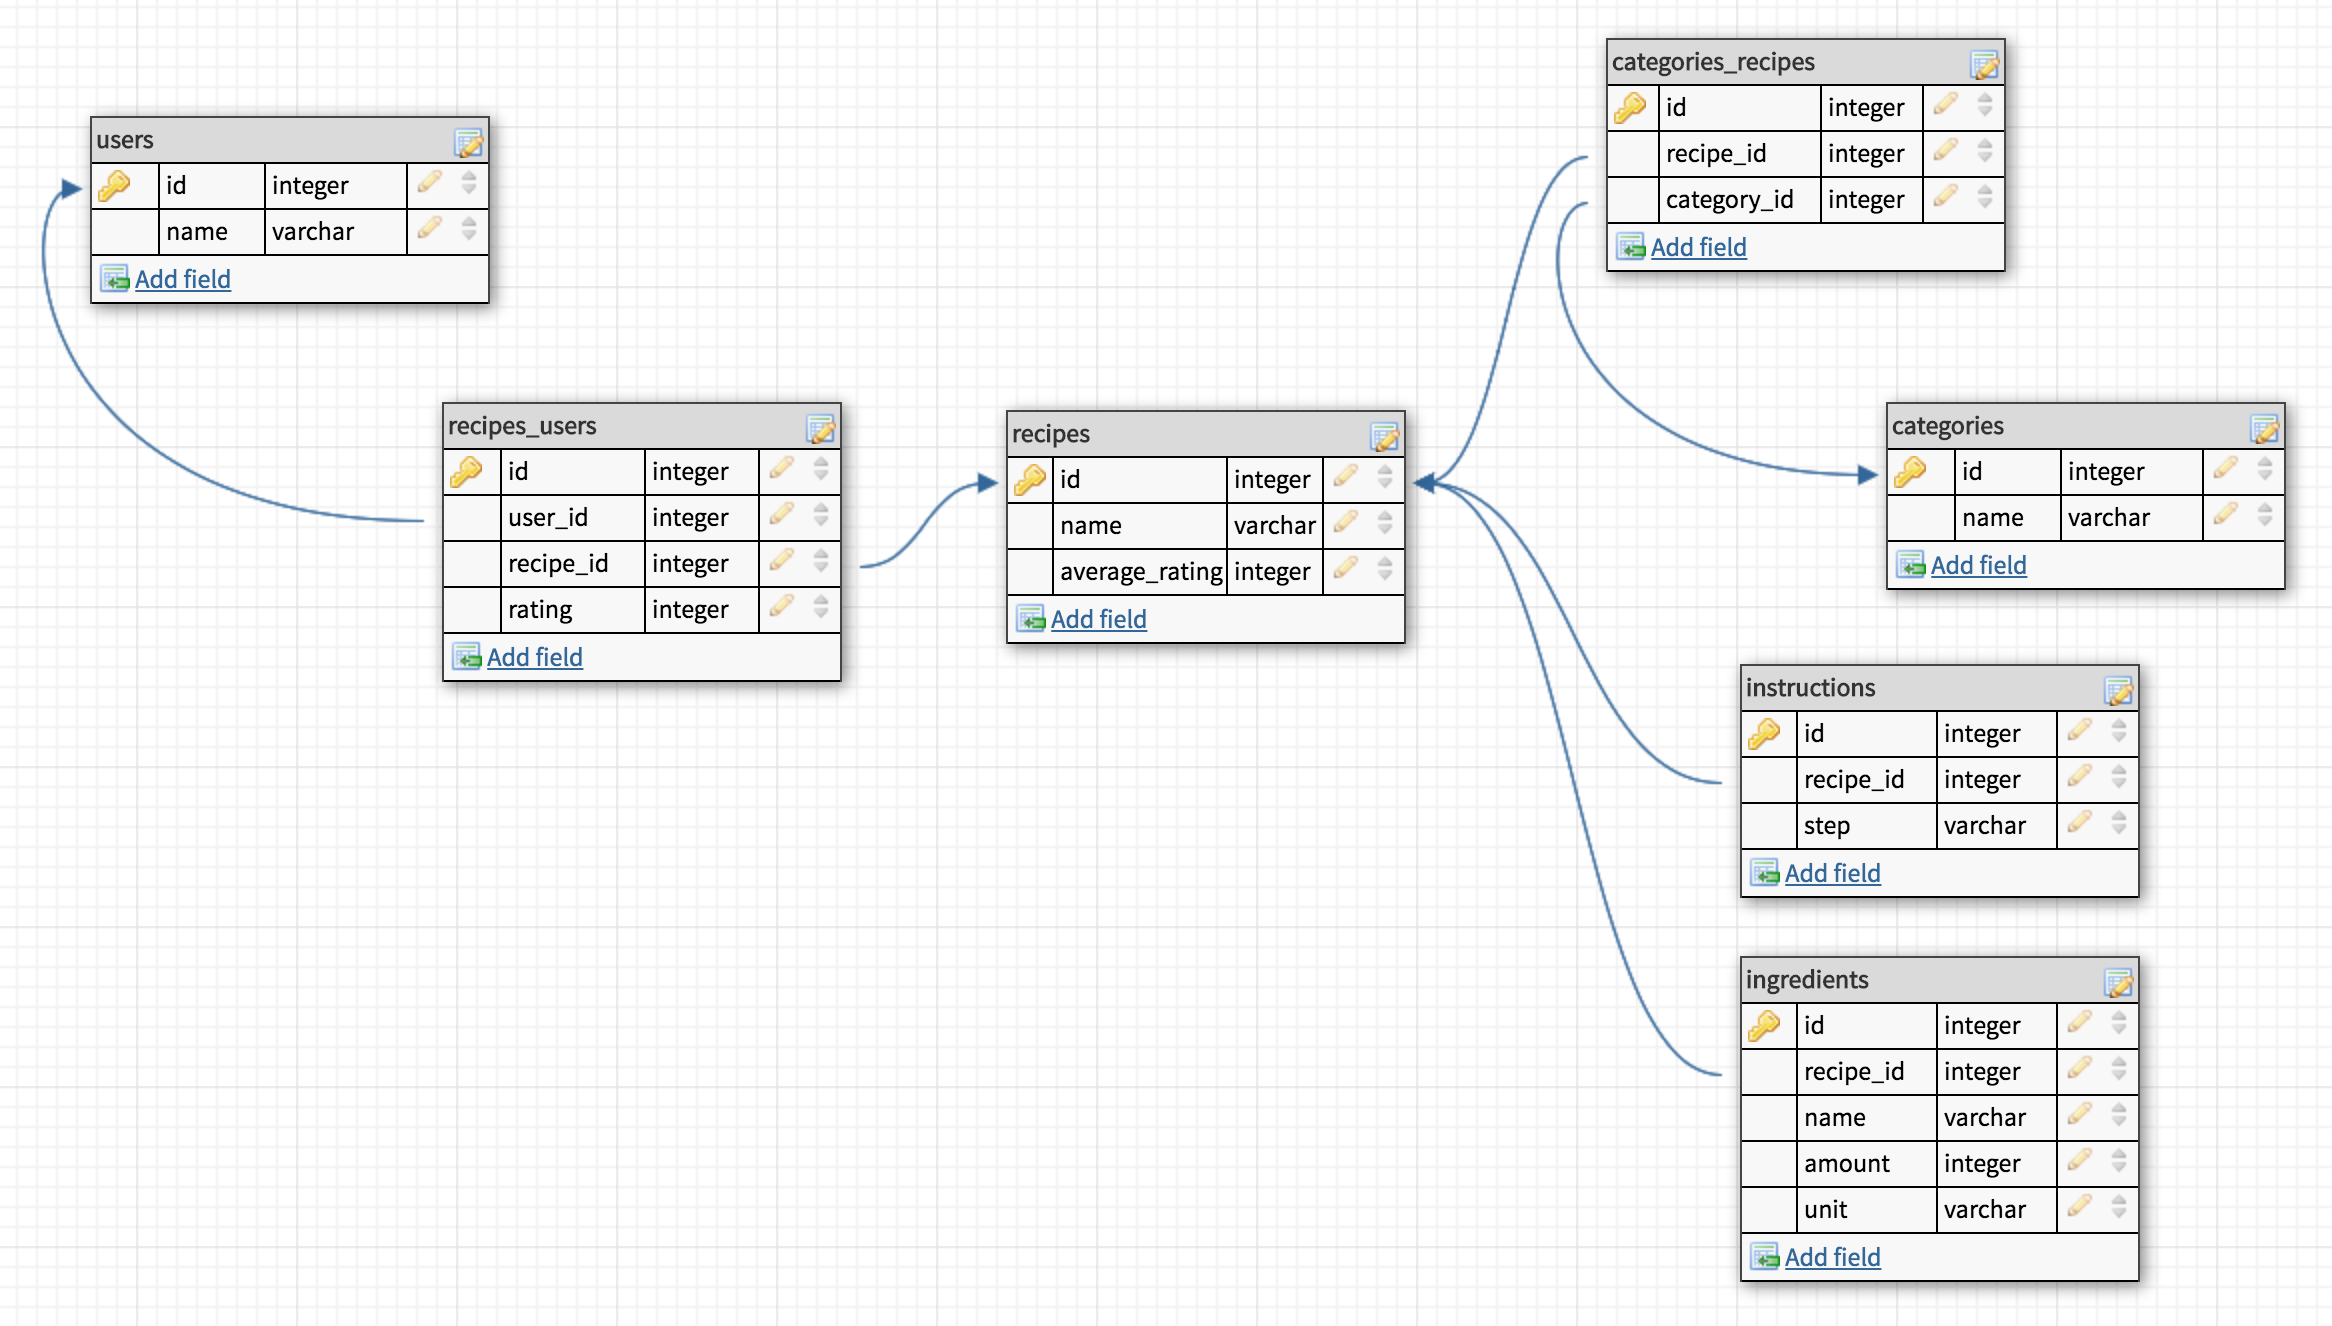
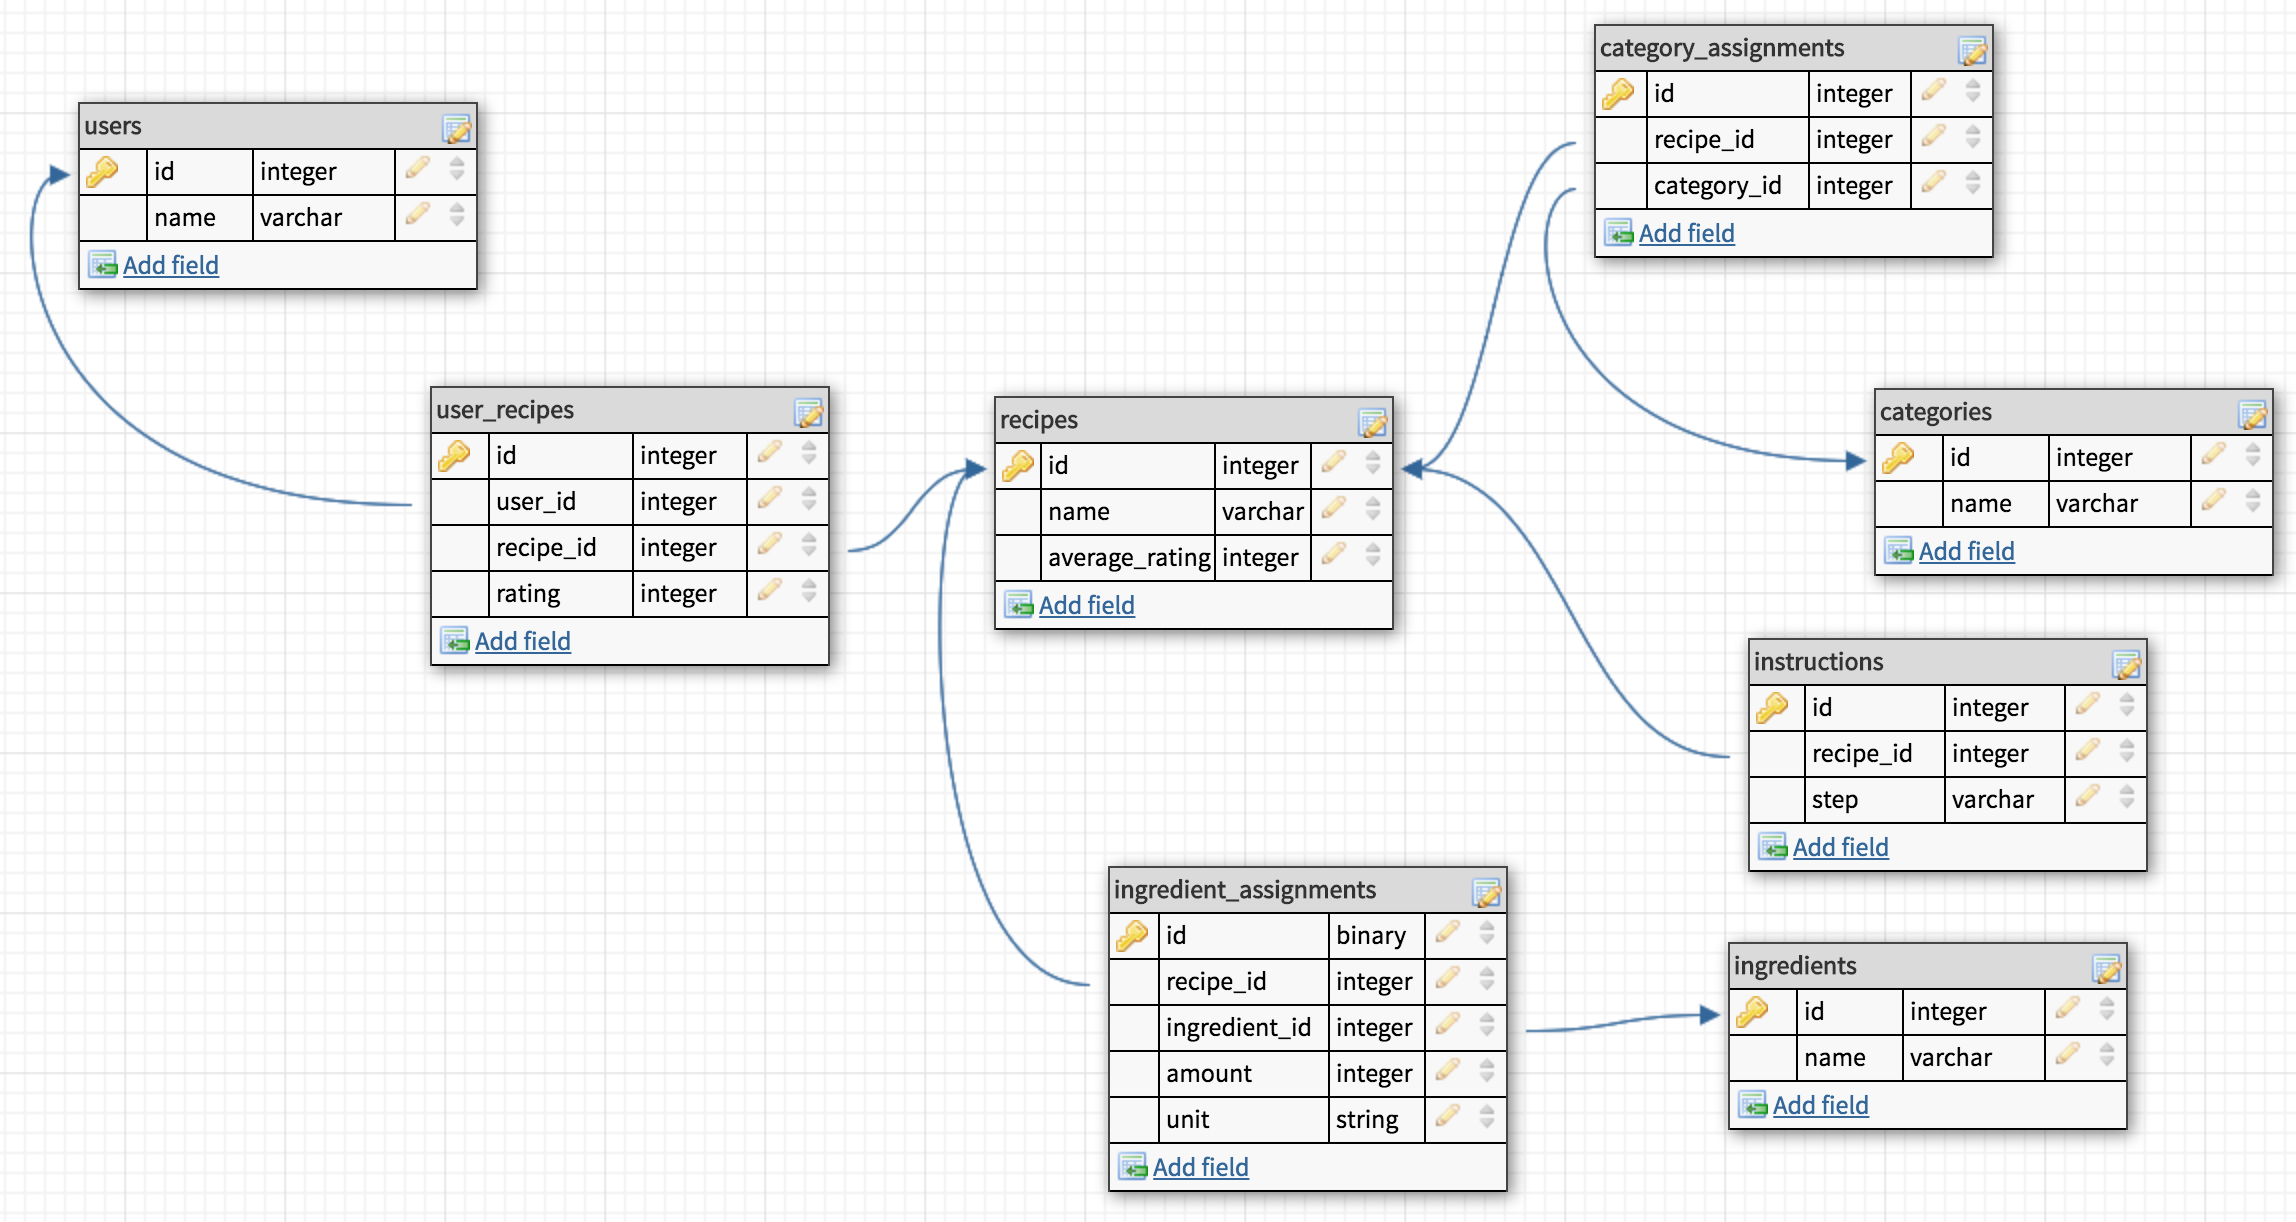
add front end for adding, editing and deleting instructions and ingredients

diff --git a/public/style.css b/public/style.css
@@ -1,0 +1,16 @@
+body {
+  font-family: 'PT Sans Narrow', sans-serif;
+}
+
+#main-title {
+  font-size: 3em;
+}
+
+.panel-default>.panel-heading {
+  background-color: #8157FF;
+  color: #ffffff;
+}
+
+#delete {
+  background-color: #FF3366;
+}

diff --git a/app.rb b/app.rb
@@ -24,31 +24,103 @@ get '/user/:user_id' do
   erb :user
 end
 
-post '/user/:user_id/recipe/edit' do
-  name = params["name"]
-  @recipe = Recipe.new({:name => name})
+get '/user/:user_id/recipe/:recipe_id/edit' do
   @user = User.find(params['user_id'].to_i())
-  @user.recipes.push(@recipe)
+  @recipe = Recipe.find(params['recipe_id'].to_i())
   erb :edit_recipe
 end
 
-get '/user/:user_id/recipe/:recipe_id' do
+get '/user/:user_id/recipe/:recipe_id/ingredient/:ingredient_id/edit' do
   @user = User.find(params['user_id'].to_i())
   @recipe = Recipe.find(params['recipe_id'].to_i())
-  erb :recipe
+  @ingredient = Ingredient.find(params['ingredient_id'].to_i())
+  erb :edit_ingredient
 end
 
-get '/user/:user_id/recipe/:recipe_id/ingredient/:ingredient_id' do
+get '/user/:user_id/recipe/:recipe_id/instruction/:instruction_id/edit' do
   @user = User.find(params['user_id'].to_i())
   @recipe = Recipe.find(params['recipe_id'].to_i())
-  @ingredient = Recipe.find(params['recipe_id'].to_i())
-  erb :edit_ingredient
+  @instruction = Instruction.find(params['instruction_id'].to_i())
+  erb :edit_instruction
+end
+
+post '/user/:user_id/recipe/edit' do
+  name = params["name"]
+  @user = User.find(params['user_id'].to_i())
+  @recipe = @user.recipes.create({:name => name})
+  erb :edit_recipe
+end
+
+post '/clear_all' do
+  clear_all()
+  @users = User.all()
+  erb :index
 end
 
 patch '/user/:user_id/recipe/:recipe_id/add_ingredient' do
   @user = User.find(params['user_id'].to_i())
   @recipe = Recipe.find(params['recipe_id'].to_i())
   name = params["name"]
-  ingredient = Ingredient.create({:name => name, :recipe_id => @recipe.id()})
-  erb :recipe
+  @recipe.ingredients.create({:name => name})
+  erb :edit_recipe
+end
+
+patch '/user/:user_id/recipe/:recipe_id/add_instruction' do
+  @user = User.find(params['user_id'].to_i())
+  @recipe = Recipe.find(params['recipe_id'].to_i())
+  step = params["step"]
+  @recipe.instructions.create({:step => step})
+  erb :edit_recipe
+end
+
+patch '/user/:user_id/recipe/:recipe_id/instruction/:instruction_id/edit' do
+  @user = User.find(params['user_id'].to_i())
+  @recipe = Recipe.find(params['recipe_id'].to_i())
+  @instruction = Instruction.find(params['instruction_id'].to_i())
+  step = params["step"]
+  @instruction.update({:step => step})
+  erb :edit_instruction
+end
+
+patch '/user/:user_id/recipe/:recipe_id/ingredient/:ingredient_id/edit' do
+  @user = User.find(params['user_id'].to_i())
+  @recipe = Recipe.find(params['recipe_id'].to_i())
+  @ingredient = Ingredient.find(params['ingredient_id'].to_i())
+  name = params["name"]
+  @ingredient.update({:name => name})
+  erb :edit_ingredient
+end
+
+delete '/user/:user_id/recipe/:recipe_id/delete' do
+  @user = User.find(params['user_id'].to_i())
+  @recipe = Recipe.find(params['recipe_id'].to_i())
+  @recipe.delete()
+  erb :user
+end
+
+delete '/user/:user_id/recipe/:recipe_id/ingredient/:ingredient_id/delete' do
+  @user = User.find(params['user_id'].to_i())
+  @recipe = Recipe.find(params['recipe_id'].to_i())
+  @ingredient = Ingredient.find(params['ingredient_id'].to_i())
+  @ingredient.delete()
+  erb :edit_recipe
+end
+
+delete '/user/:user_id/recipe/:recipe_id/instruction/:instruction_id/delete' do
+  @user = User.find(params['user_id'].to_i())
+  @recipe = Recipe.find(params['recipe_id'].to_i())
+  @instruction = Instruction.find(params['instruction_id'].to_i())
+  @instruction.delete()
+  erb :edit_recipe
+end
+
+def clear_all
+  CategoryAssignment.delete_all()
+  Category.delete_all()
+  IngredientAssignment.delete_all()
+  Ingredient.delete_all()
+  Instruction.delete_all()
+  Recipe.delete_all()
+  UserRecipe.delete_all()
+  User.delete_all()
 end

diff --git a/spec/recipe_spec.rb b/spec/recipe_spec.rb
@@ -9,20 +9,20 @@ describe Recipe do
       expect(recipe.categories()).to eq([category])
     end
   end
+  describe '#ingredients' do
+    it 'create a recipe, create an ingredient, push ingredient to recipe' do
+      recipe = Recipe.create({:name => 'Mac n Cheese'})
+      ingredient = Ingredient.create({:name => 'Cheese'})
+      recipe.ingredients.push(ingredient)
+      expect(recipe.ingredients()).to eq([ingredient])
+    end
+  end
   describe '#instructions' do
     it 'create a recipe and create instructions' do
       recipe = Recipe.create({:name => 'Mac n Cheese'})
       instruction1 = Instruction.create({:step => "wash ur hands", :recipe_id => recipe.id()})
       instruction2 = Instruction.create({:step => "cook the food", :recipe_id => recipe.id()})
       expect(recipe.instructions()).to eq([instruction1, instruction2])
-    end
-  end
-  describe '#ingredients' do
-    it 'create a recipe and create ingredients' do
-      recipe = Recipe.create({:name => 'Mac n Cheese'})
-      ingredient1 = Ingredient.create({:name => "beef", :amount => 1, :unit => "lbs", :recipe_id => recipe.id()})
-      ingredient2 = Ingredient.create({:name => "chicken", :amount => 2, :unit => "lbs", :recipe_id => recipe.id()})
-      expect(recipe.ingredients()).to eq([ingredient1, ingredient2])
     end
   end
 end

diff --git a/db/schema.rb b/db/schema.rb
@@ -10,7 +10,7 @@
 #
 # It's strongly recommended that you check this file into your version control system.
 
-ActiveRecord::Schema.define(version: 20170510164812) do
+ActiveRecord::Schema.define(version: 20170511154609) do
 
   # These are extensions that must be enabled in order to support this database
   enable_extension "plpgsql"
@@ -28,10 +28,18 @@ ActiveRecord::Schema.define(version: 20170510164812) do
     t.datetime "updated_at", null: false
   end
 
+  create_table "ingredient_assignments", force: :cascade do |t|
+    t.integer "recipe_id"
+    t.integer "ingredient_id"
+    t.integer "amount"
+    t.string "unit"
+    t.datetime "created_at", null: false
+    t.datetime "updated_at", null: false
+  end
+
   create_table "ingredients", force: :cascade do |t|
     t.integer "recipe_id"
     t.string "name"
-    t.integer "amount"
     t.string "unit"
     t.datetime "created_at", null: false
     t.datetime "updated_at", null: false

diff --git a/spec/ingredient_spec.rb b/spec/ingredient_spec.rb
@@ -1,0 +1,19 @@
+require 'spec_helper'
+
+describe Ingredient do
+  describe '#recipes' do
+    it 'create a recipe, create a ingredient, push recipe to ingredient' do
+      recipe = Recipe.create({:name => 'Mac n Cheese'})
+      ingredient = Ingredient.create({:name => 'American'})
+      recipe.ingredients.push(ingredient)
+      expect(ingredient.recipes()).to eq([recipe])
+      expect(recipe.ingredients()).to eq([ingredient])
+    end
+    it 'create a recipe, create a ingredient through the recipe' do
+      recipe = Recipe.create({:name => 'Mac n Cheese'})
+      ingredient = recipe.ingredients.create({:name => 'American'})
+      expect(ingredient.recipes()).to eq([recipe])
+      expect(recipe.ingredients()).to eq([ingredient])
+    end
+  end
+end

diff --git a/spec/category_spec.rb b/spec/category_spec.rb
@@ -7,6 +7,13 @@ describe Category do
       category = Category.create({:name => 'American'})
       recipe.categories.push(category)
       expect(category.recipes()).to eq([recipe])
+      expect(recipe.categories()).to eq([category])
+    end
+    it 'create a recipe, create a category through the recipe' do
+      recipe = Recipe.create({:name => 'Mac n Cheese'})
+      category = recipe.categories.create({:name => 'American'})
+      expect(category.recipes()).to eq([recipe])
+      expect(recipe.categories()).to eq([category])
     end
   end
 end

diff --git a/db/migrate/20170511154609_add_ingredient_assignments_table.rb b/db/migrate/20170511154609_add_ingredient_assignments_table.rb
@@ -1,0 +1,14 @@
+class AddIngredientAssignmentsTable < ActiveRecord::Migration[5.1]
+  def change
+    remove_column :ingredients, :amount, :unit
+
+    create_table :ingredient_assignments do |t|
+      t.column :recipe_id, :integer
+      t.column :ingredient_id, :integer
+      t.column :amount, :integer
+      t.column :unit, :string
+
+      t.timestamps
+    end
+  end
+end

diff --git a/lib/recipe.rb b/lib/recipe.rb
@@ -2,7 +2,8 @@ class Recipe < ActiveRecord::Base
   has_many :user_recipes
   has_many :users, through: :user_recipes
   has_many :instructions
-  has_many :ingredients
+  has_many :ingredient_assignments
+  has_many :ingredients, through: :ingredient_assignments
   has_many :category_assignments
   has_many :categories, through: :category_assignments
 end

diff --git a/lib/ingredient.rb b/lib/ingredient.rb
@@ -1,3 +1,4 @@
 class Ingredient < ActiveRecord::Base
-  belongs_to :recipe
+  has_many :ingredient_assignments
+  has_many :recipes, through: :ingredient_assignments
 end

diff --git a/lib/ingredient_assignment.rb b/lib/ingredient_assignment.rb
@@ -1,0 +1,4 @@
+class IngredientAssignment < ActiveRecord::Base
+  belongs_to :recipe
+  belongs_to :ingredient
+end
